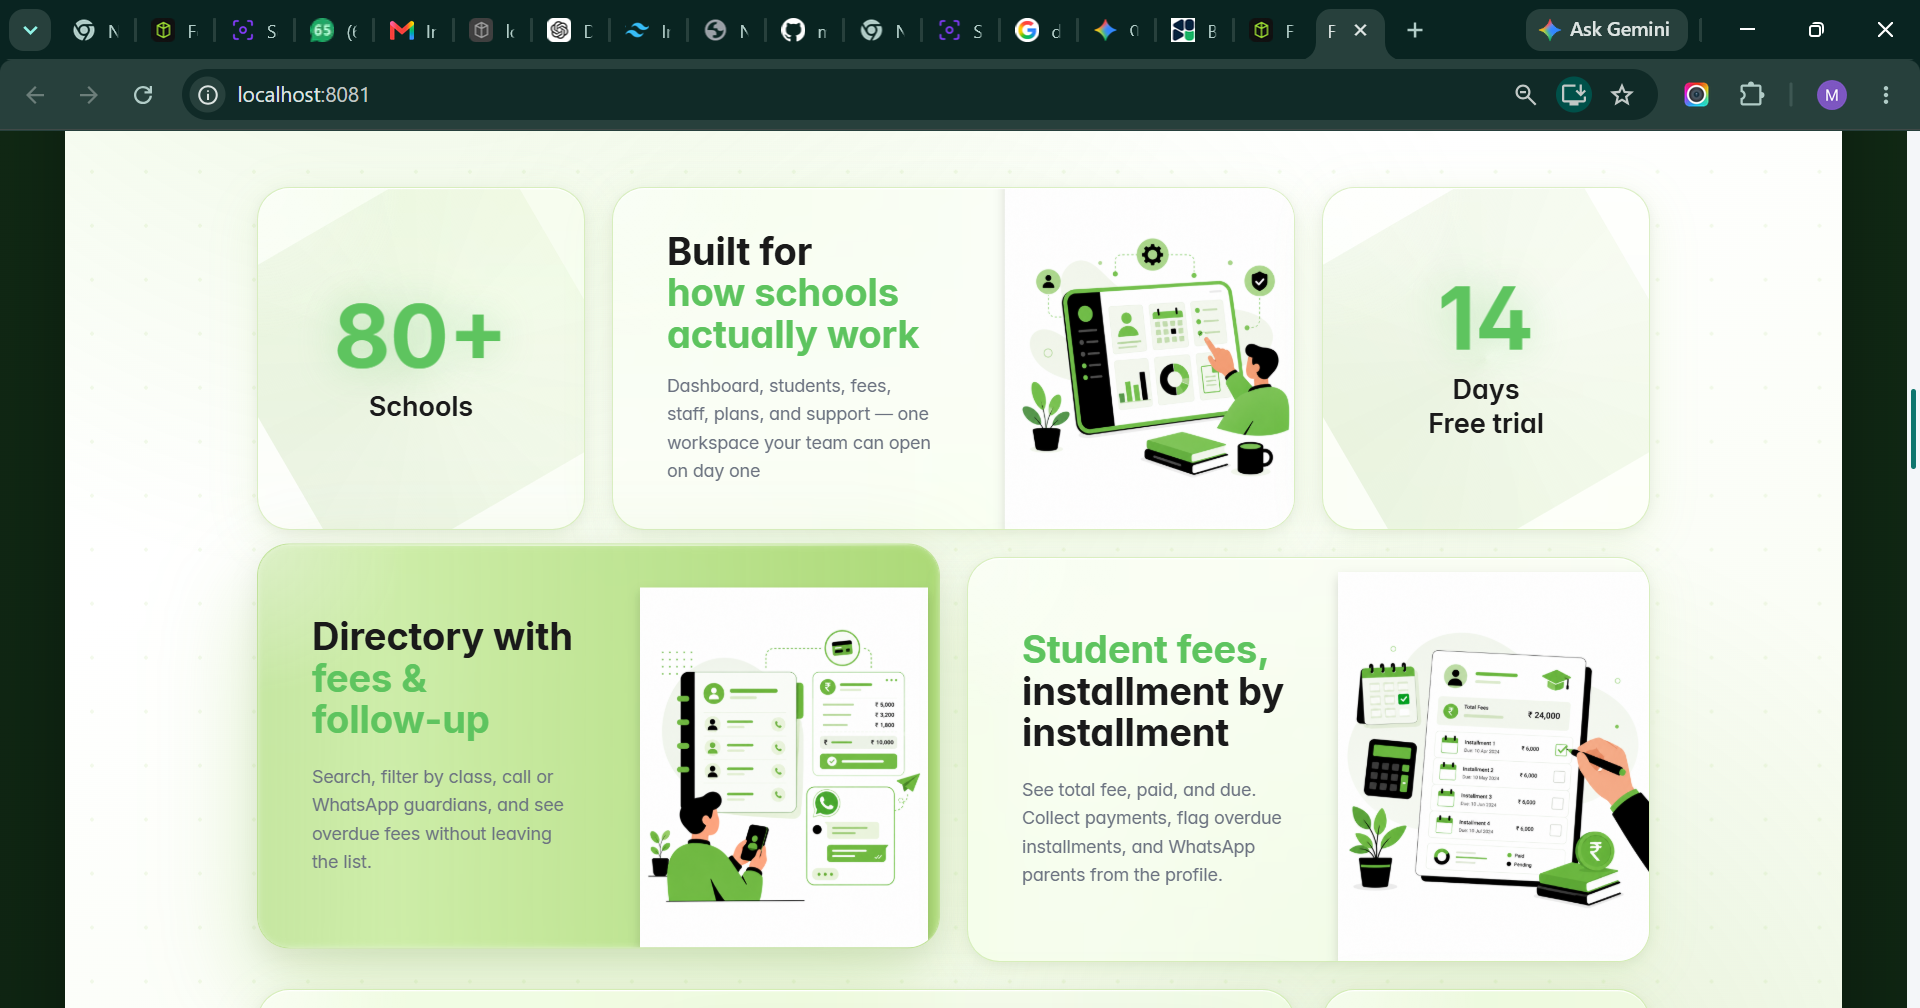
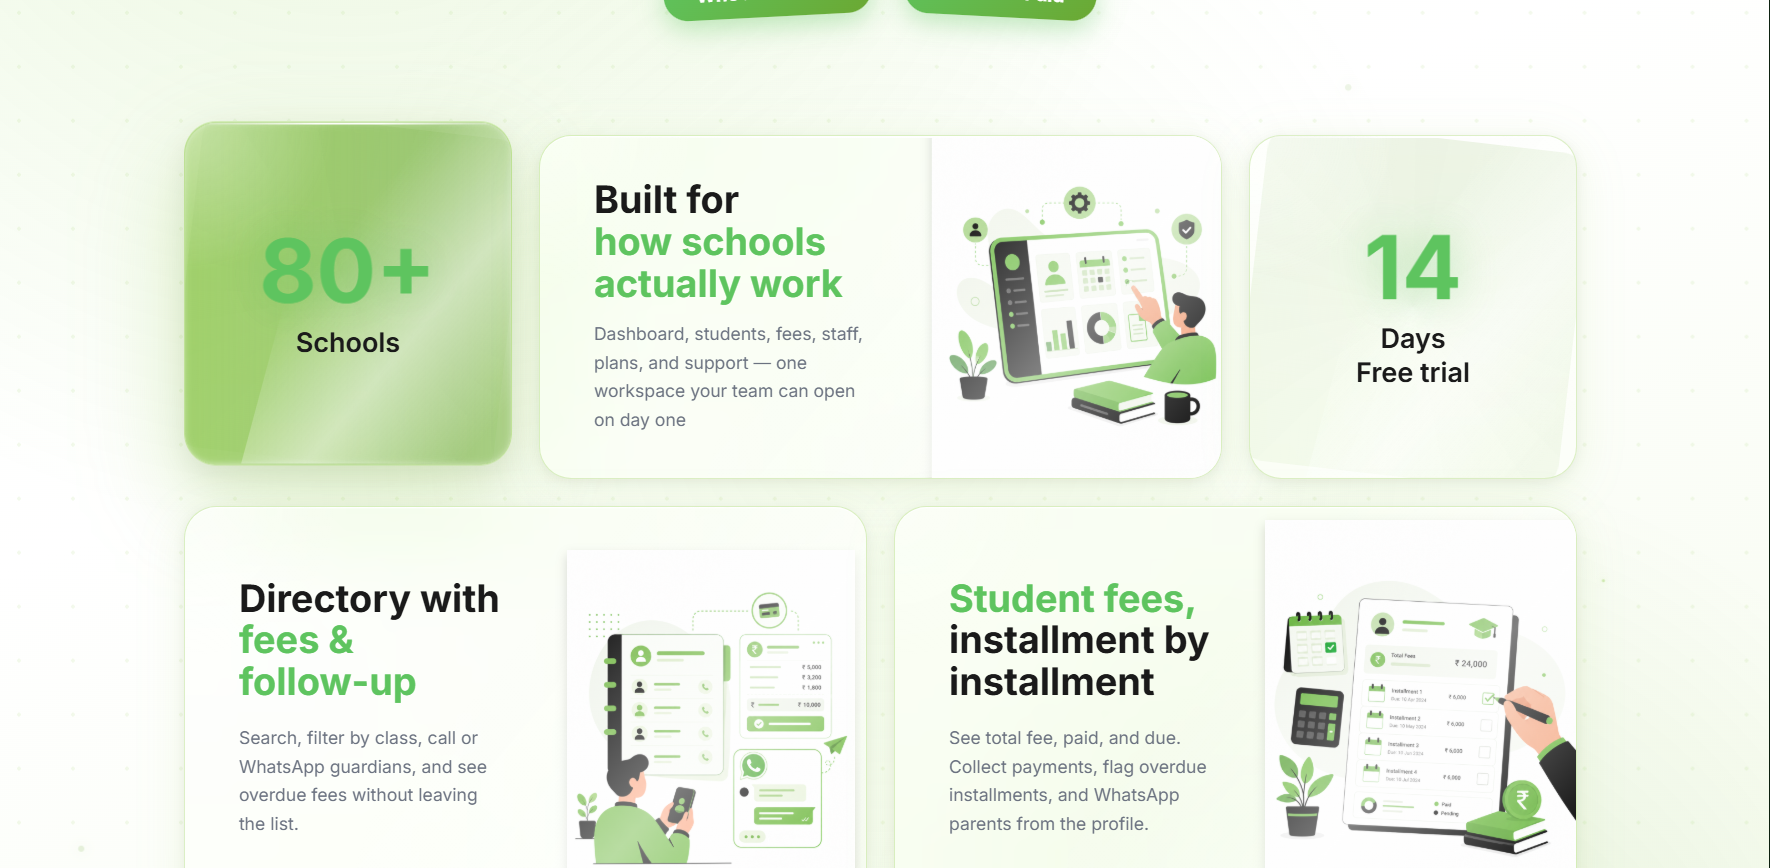
fix images issues

diff --git a/src/components/marketing/IntroAnimation.tsx b/src/components/marketing/IntroAnimation.tsx
@@ -7,11 +7,9 @@ import { MarketingShell } from "@/components/marketing/MarketingShell";
 
 const MiniPage = ({ imgSrc }: { imgSrc: string }) => (
   <div className="w-full h-full p-2 relative pointer-events-none">
-    {/* Page Container with Glassmorphism */}
-    <div className="w-full h-full relative overflow-hidden rounded-2xl shadow-[0_8px_32px_rgba(0,0,0,0.2)] border border-white/30 bg-white/10 backdrop-blur-xl">
-      {/* Glossy reflection on the glass */}
-      <div className="absolute inset-0 bg-gradient-to-tr from-white/60 via-transparent to-transparent pointer-events-none mix-blend-overlay z-10" />
-      <img src={imgSrc} className="w-full h-full object-cover opacity-90" alt="" />
+    {/* Page Container */}
+    <div className="w-full h-full relative overflow-hidden rounded-[1rem] shadow-lg">
+      <img src={imgSrc} className="w-full h-full object-cover" alt="" />
     </div>
   </div>
 );
@@ -141,16 +139,16 @@ export function IntroAnimation() {
               setTimeout(() => setIsFinished(true), 50);
             }}
           >
-            {/* Center Piece Glass Content Container */}
+            {/* Center Piece Content Container */}
             <motion.div 
-               className="w-full h-full relative overflow-hidden bg-white/10 backdrop-blur-xl border border-white/30"
-               initial={{ borderRadius: "1rem", backgroundColor: "rgba(255,255,255,0.1)", borderColor: "rgba(255,255,255,0.3)" }}
-               animate={{ borderRadius: "0rem", backgroundColor: "rgba(8,24,10,1)", borderColor: "rgba(8,24,10,0)" }}
+               className="w-full h-full relative overflow-hidden bg-white shadow-lg"
+               initial={{ borderRadius: "1rem" }}
+               animate={{ borderRadius: "0rem" }}
                transition={{ duration: 1.5, ease: easeOutExpo, delay: 0.5 }}
             >
                <motion.div 
                  className="absolute top-0 left-0 w-screen h-screen origin-top-left pointer-events-none"
-                 initial={{ scale: 0.33333, opacity: 0.8 }}
+                 initial={{ scale: 0.33333, opacity: 1 }}
                  animate={{ scale: 1, opacity: 1 }}
                  transition={{ duration: 1.5, ease: easeOutExpo, delay: 0.5 }}
                >
@@ -160,13 +158,6 @@ export function IntroAnimation() {
                    <div className="h-[200vh]" />
                  </MarketingShell>
                </motion.div>
-               {/* 3D Video "Light Sweep" effect fading out */}
-               <motion.div 
-                 className="absolute inset-0 bg-gradient-to-tr from-[#8FCA4A]/30 via-transparent to-transparent pointer-events-none mix-blend-overlay"
-                 initial={{ opacity: 1, x: "-100%" }}
-                 animate={{ opacity: 0, x: "100%" }}
-                 transition={{ duration: 1.5, ease: easeOutExpo, delay: 0.5 }}
-               />
             </motion.div>
           </motion.div>
         </motion.div>

diff --git a/src/components/marketing/MarketingShell.tsx b/src/components/marketing/MarketingShell.tsx
@@ -19,11 +19,8 @@ const MKT_VARS = {
 export function MarketingShell({ children }: { children: ReactNode }) {
   return (
     <div
-      className="marketing-root min-h-dvh scroll-smooth bg-[#08180A] p-4 sm:p-8 md:p-12 flex flex-col antialiased"
-      style={{
-        ...MKT_VARS,
-        backgroundImage: "radial-gradient(circle at 50% 0%, #15321A 0%, #08180A 80%)"
-      }}
+      className="marketing-root min-h-dvh scroll-smooth bg-white flex flex-col antialiased"
+      style={MKT_VARS}
     >
       <a
         href="#main"
@@ -32,8 +29,8 @@ export function MarketingShell({ children }: { children: ReactNode }) {
         Skip to content
       </a>
 
-      {/* ── Inner White Card ── */}
-      <div className="flex-1 bg-white rounded-[32px] sm:rounded-[40px] shadow-[0_20px_60px_rgba(0,0,0,0.3)] overflow-hidden flex flex-col relative text-[var(--mkt-ink)]">
+      {/* ── Main Content Container ── */}
+      <div className="flex-1 bg-white overflow-hidden flex flex-col relative text-[var(--mkt-ink)]">
         
         <header
           className="sticky top-0 z-50"
